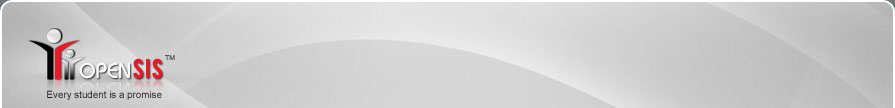
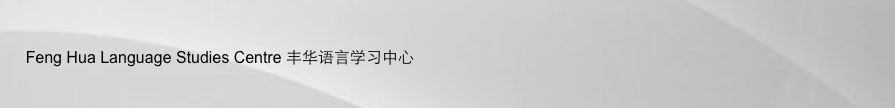
update school

diff --git a/modules/schoolsetup/Courses.php b/modules/schoolsetup/Courses.php
@@ -1953,7 +1953,7 @@ if (!$_REQUEST['modfunc'] && !$_REQUEST['course_modfunc'] && !$_REQUEST['action'
         else
         $header .= '<TD>' . SelectInput($RET['TEACHER_ID'], 'tables[course_periods][' . $_REQUEST['course_period_id'] . '][TEACHER_ID]', 'Primary Teacher', $teachers,'N/A','',$div) . '</TD>';    
         
-        $header .= '<TD>' . SelectInput($RET['SECONDARY_TEACHER_ID'], 'tables[course_periods][' . $_REQUEST['course_period_id'] . '][SECONDARY_TEACHER_ID]', 'Secondary Teacher', $teachers,'N/A','',$div) . '</TD>';
+        //$header .= '<TD>' . SelectInput($RET['SECONDARY_TEACHER_ID'], 'tables[course_periods][' . $_REQUEST['course_period_id'] . '][SECONDARY_TEACHER_ID]', 'Secondary Teacher', $teachers,'N/A','',$div) . '</TD>';
         $header .= '<TD>' . TextInput($RET['TOTAL_SEATS'], 'tables[course_periods][' . $_REQUEST['course_period_id'] . '][TOTAL_SEATS]', 'Seats', 'size=4 class=cell_floating',$div) . '</TD>';
         if ($_REQUEST['course_period_id'] != 'new')
             $header .= '<TD><FONT color=green>' . $RET['AVAILABLE_SEATS'] . '</FONT><BR><FONT color=gray><SMALL>Available Seats</SMALL></FONT></TD>';
@@ -1966,9 +1966,9 @@ if (!$_REQUEST['modfunc'] && !$_REQUEST['course_modfunc'] && !$_REQUEST['action'
         $options = array();
         foreach ($options_RET as $option)
             $options[$option['ID']] = $option['TITLE'];
-        $header .= '<TD>' . SelectInput($RET['GRADE_SCALE_ID'], 'tables[course_periods][' . $_REQUEST['course_period_id'] . '][GRADE_SCALE_ID]', 'Grading Scale', $options, 'Not Graded','',$div) . '</TD>';
-        $header .= '<TD valign=top>' . TextInput(sprintf('%0.3f', $RET['CREDITS']), 'tables[course_periods][' . $_REQUEST['course_period_id'] . '][CREDITS]', 'Credit Hours', 'size=4 class=cell_floating') . '</TD>';
-        $header .= '<TD>' . SelectInput($RET['GENDER_RESTRICTION'], 'tables[course_periods][' . $_REQUEST['course_period_id'] . '][GENDER_RESTRICTION]', 'Gender Restriction', array('N' => 'None', 'M' => 'Male', 'F' => 'Female'), false,'',$div) . '</TD>';
+        //$header .= '<TD>' . SelectInput($RET['GRADE_SCALE_ID'], 'tables[course_periods][' . $_REQUEST['course_period_id'] . '][GRADE_SCALE_ID]', 'Grading Scale', $options, 'Not Graded','',$div) . '</TD>';
+        //$header .= '<TD valign=top>' . TextInput(sprintf('%0.3f', $RET['CREDITS']), 'tables[course_periods][' . $_REQUEST['course_period_id'] . '][CREDITS]', 'Credit Hours', 'size=4 class=cell_floating') . '</TD>';
+        $header .= '<TD style="display:none" >' . SelectInput($RET['GENDER_RESTRICTION'], 'tables[course_periods][' . $_REQUEST['course_period_id'] . '][GENDER_RESTRICTION]', 'Gender Restriction', array('N' => 'None', 'M' => 'Male', 'F' => 'Female'), false,'',$div) . '</TD>';
          if ($_REQUEST['course_period_id'] != 'new' && $RET['PARENT_ID'] != $_REQUEST['course_period_id']) {
             $parent = DBGet(DBQuery("SELECT cp.TITLE as CP_TITLE,c.TITLE AS C_TITLE FROM course_periods cp,courses c WHERE c.COURSE_ID=cp.COURSE_ID AND cp.COURSE_PERIOD_ID='" . $RET['PARENT_ID'] . "'"));
             $parent = $parent[1]['C_TITLE'] . ' : ' . $parent[1]['CP_TITLE'];
@@ -1981,22 +1981,22 @@ if (!$_REQUEST['modfunc'] && !$_REQUEST['course_modfunc'] && !$_REQUEST['action'
         }
 
         //		--------------------------------------------- Temp Coment ------------------------------------------------- 	//
-        if ($_REQUEST['course_period_id'] != 'new' && $RET['PARENT_ID'] != $_REQUEST['course_period_id']) {
-            $header .= "<TD colspan=2><DIV id=course_div>" . $parent . "</DIV> " . ($parent != 'N/A' && AllowEdit() ? "<A HREF=# onclick='window.open(\"ForWindow.php?modname=miscellaneous/ChooseParentCourse.php\",\"\",\"scrollbars=yes,resizable=yes,width=800,height=400\");'>Choose</A>" . "&nbsp;&nbsp;" . "<INPUT type=checkbox name='tables[course_periods][" . $_REQUEST['course_period_id'] . "][PARENT_ID]' value='" . $_REQUEST['course_period_id'] . "' >&nbsp;Remove" . "<BR>" : '') . "<small><FONT color=" . Preferences('TITLES') . ">Parent Period</FONT></small></TD>";
-        } else {
-            $header .= "<TD colspan=2><DIV id=course_div>" . $parent . "</DIV> " . ($parent != 'N/A' && AllowEdit() ? "<A HREF=# onclick='window.open(\"ForWindow.php?modname=miscellaneous/ChooseParentCourse.php\",\"\",\"scrollbars=yes,resizable=yes,width=800,height=400\");'>Choose</A><BR>" : '') . "<small><FONT color=" . Preferences('TITLES') . ">Parent Period</FONT></small></TD>";
-        }
+        // if ($_REQUEST['course_period_id'] != 'new' && $RET['PARENT_ID'] != $_REQUEST['course_period_id']) {
+        //     $header .= "<TD colspan=2><DIV id=course_div>" . $parent . "</DIV> " . ($parent != 'N/A' && AllowEdit() ? "<A HREF=# onclick='window.open(\"ForWindow.php?modname=miscellaneous/ChooseParentCourse.php\",\"\",\"scrollbars=yes,resizable=yes,width=800,height=400\");'>Choose</A>" . "&nbsp;&nbsp;" . "<INPUT type=checkbox name='tables[course_periods][" . $_REQUEST['course_period_id'] . "][PARENT_ID]' value='" . $_REQUEST['course_period_id'] . "' >&nbsp;Remove" . "<BR>" : '') . "<small><FONT color=" . Preferences('TITLES') . ">Parent Period</FONT></small></TD>";
+        // } else {
+        //     $header .= "<TD colspan=2><DIV id=course_div>" . $parent . "</DIV> " . ($parent != 'N/A' && AllowEdit() ? "<A HREF=# onclick='window.open(\"ForWindow.php?modname=miscellaneous/ChooseParentCourse.php\",\"\",\"scrollbars=yes,resizable=yes,width=800,height=400\");'>Choose</A><BR>" : '') . "<small><FONT color=" . Preferences('TITLES') . ">Parent Period</FONT></small></TD>";
+        // }
 		
         
-        $header .= '<TD>' . CheckboxInput($RET['DOES_BREAKOFF'], 'tables[course_periods][' . $_REQUEST['course_period_id'] . '][DOES_BREAKOFF]', 'Allow Teacher Gradescale', $checked, $new, '<IMG SRC=assets/check.gif height=15 vspace=0 hspace=0 border=0>', '<IMG SRC=assets/x.gif height=15 vspace=0 hspace=0 border=0>',$div) . '</TD>';
+        //$header .= '<TD>' . CheckboxInput($RET['DOES_BREAKOFF'], 'tables[course_periods][' . $_REQUEST['course_period_id'] . '][DOES_BREAKOFF]', 'Allow Teacher Gradescale', $checked, $new, '<IMG SRC=assets/check.gif height=15 vspace=0 hspace=0 border=0>', '<IMG SRC=assets/x.gif height=15 vspace=0 hspace=0 border=0>',$div) . '</TD>';
         $header .= '</TR><TR>'; 
-        $header .= '<TD>' . CheckboxInput($RET['COURSE_WEIGHT'], 'tables[course_periods][' . $_REQUEST['course_period_id'] . '][COURSE_WEIGHT]', 'Course is Weighted', $checked, $new, '<IMG SRC=assets/check.gif height=15 vspace=0 hspace=0 border=0>', '<IMG SRC=assets/x.gif height=15 vspace=0 hspace=0 border=0>',$div) . '</TD>';
+        //$header .= '<TD>' . CheckboxInput($RET['COURSE_WEIGHT'], 'tables[course_periods][' . $_REQUEST['course_period_id'] . '][COURSE_WEIGHT]', 'Course is Weighted', $checked, $new, '<IMG SRC=assets/check.gif height=15 vspace=0 hspace=0 border=0>', '<IMG SRC=assets/x.gif height=15 vspace=0 hspace=0 border=0>',$div) . '</TD>';
         
                      
 //        
-        $header .= '<TD valign=top>' . CheckboxInput($RET['DOES_HONOR_ROLL'], 'tables[course_periods][' . $_REQUEST['course_period_id'] . '][DOES_HONOR_ROLL]', 'Affects Honor Roll', $checked, $new, '<IMG SRC=assets/check.gif height=15 vspace=0 hspace=0 border=0>', '<IMG SRC=assets/x.gif height=15 vspace=0 hspace=0 border=0>',$div) . '</TD>';
-        $header .= '<TD valign=top>' . CheckboxInput($RET['HALF_DAY'], 'tables[course_periods][' . $_REQUEST['course_period_id'] . '][HALF_DAY]', 'Half Day', $checked, $new, '<IMG SRC=assets/check.gif height=15 vspace=0 hspace=0 border=0>', '<IMG SRC=assets/x.gif height=15 vspace=0 hspace=0 border=0>',$div) . '</TD>';
-        $header .= '<TD>' . CheckboxInput($RET['DOES_CLASS_RANK'], 'tables[course_periods][' . $_REQUEST['course_period_id'] . '][DOES_CLASS_RANK]', 'Affects Class Rank', $checked, $new, '<IMG SRC=assets/check.gif height=15 vspace=0 hspace=0 border=0>', '<IMG SRC=assets/x.gif height=15 vspace=0 hspace=0 border=0>',$div) . '</TD>';
+        //$header .= '<TD valign=top>' . CheckboxInput($RET['DOES_HONOR_ROLL'], 'tables[course_periods][' . $_REQUEST['course_period_id'] . '][DOES_HONOR_ROLL]', 'Affects Honor Roll', $checked, $new, '<IMG SRC=assets/check.gif height=15 vspace=0 hspace=0 border=0>', '<IMG SRC=assets/x.gif height=15 vspace=0 hspace=0 border=0>',$div) . '</TD>';
+        //$header .= '<TD valign=top>' . CheckboxInput($RET['HALF_DAY'], 'tables[course_periods][' . $_REQUEST['course_period_id'] . '][HALF_DAY]', 'Half Day', $checked, $new, '<IMG SRC=assets/check.gif height=15 vspace=0 hspace=0 border=0>', '<IMG SRC=assets/x.gif height=15 vspace=0 hspace=0 border=0>',$div) . '</TD>';
+        //$header .= '<TD>' . CheckboxInput($RET['DOES_CLASS_RANK'], 'tables[course_periods][' . $_REQUEST['course_period_id'] . '][DOES_CLASS_RANK]', 'Affects Class Rank', $checked, $new, '<IMG SRC=assets/check.gif height=15 vspace=0 hspace=0 border=0>', '<IMG SRC=assets/x.gif height=15 vspace=0 hspace=0 border=0>',$div) . '</TD>';
                
         $header .= '</TR>';
         unset($options);
@@ -2006,12 +2006,12 @@ if (!$_REQUEST['modfunc'] && !$_REQUEST['course_modfunc'] && !$_REQUEST['action'
             foreach ($mp_RET as $mp)
                 $options[$mp['MARKING_PERIOD_ID']] = $mp['SHORT_NAME'];
         } 
-        $header .= '<TR><TD colspan=6><BR /><B>Choose the Duration</B></TD></TR><TR><TD colspan=6><TABLE cellpadding=4 width="100%" style="border:1px dotted #999"><TR><TD colspan=2><TABLE height="60px"><TR><TD><input type=radio name=date_range value=mp id=preset onchange=mp_range_toggle(this);  '.($RET['MARKING_PERIOD_ID']?' checked':'').'></TD><TD><label for=preset id=select_mp style="display:'.($RET['MARKING_PERIOD_ID']?'none':'block').'">Marking Period</label><DIV id=mp_range style=float:left;display:'.($RET['MARKING_PERIOD_ID']?'block':'none').'>' . SelectInput($RET['MARKING_PERIOD_ID'], 'tables[course_periods][' . $_REQUEST['course_period_id'] . '][MARKING_PERIOD_ID]', 'Marking Period', $options,'N/A','id=marking_period',$div) . '</DIV></TD></TR></TABLE></TD>';
+        $header .= '<TR><TD colspan=6><BR /><B>Choose Term / 选择学期</B></TD></TR><TR><TD colspan=6><TABLE cellpadding=4 width="100%" style="border:1px dotted #999"><TR><TD colspan=2><TABLE height="60px"><TR><TD><input type=radio name=date_range value=mp id=preset onchange=mp_range_toggle(this);  '.($RET['MARKING_PERIOD_ID']?' checked':'').'></TD><TD><label for=preset id=select_mp style="display:'.($RET['MARKING_PERIOD_ID']?'none':'block').'">Marking Period</label><DIV id=mp_range style=float:left;display:'.($RET['MARKING_PERIOD_ID']?'block':'none').'>' . SelectInput($RET['MARKING_PERIOD_ID'], 'tables[course_periods][' . $_REQUEST['course_period_id'] . '][MARKING_PERIOD_ID]', 'Marking Period', $options,'N/A','id=marking_period',$div) . '</DIV></TD></TR></TABLE></TD>';
 
-          $header .= '<TD colspan=4 width="550px"><TABLE><TR><TD><input type=radio name=date_range value=dr id=custom onchange=mp_range_toggle(this); '.($RET['BEGIN_DATE']?' checked':'').'></TD><TD><label for=custom id=select_range style="display:'.($RET['BEGIN_DATE']?'none':'block').'">Custom Date Range</label><DIV id=date_range style=display:'.($RET['BEGIN_DATE']?'block':'none').'><TABLE><TR><TD>' . DateInputAY($RET['BEGIN_DATE'], 'begin', 1) . '</TD><TD> &nbsp; &nbsp; &nbsp; </TD><TD>  ' . DateInputAY($RET['END_DATE'], 'end', 2) . '</TD></TR></TABLE> </DIV></TD></TR></TABLE></TD></TR></TABLE></TD></TR>';
+          $header .= '<TD colspan=4 width="550px" style="display:none" ><TABLE><TR><TD ><input type=radio name=date_range value=dr id=custom onchange=mp_range_toggle(this); '.($RET['BEGIN_DATE']?' checked':'').'></TD><TD><label for=custom id=select_range style="display:'.($RET['BEGIN_DATE']?'none':'block').'">Custom Date Range</label><DIV id=date_range style=display:'.($RET['BEGIN_DATE']?'block':'none').'><TABLE><TR><TD>' . DateInputAY($RET['BEGIN_DATE'], 'begin', 1) . '</TD><TD> &nbsp; &nbsp; &nbsp; </TD><TD>  ' . DateInputAY($RET['END_DATE'], 'end', 2) . '</TD></TR></TABLE> </DIV></TD></TR></TABLE></TD></TR></TABLE></TD></TR>';
 		
 
-          $header .= '<TR><TD colspan=6><BR /><B>Choose Schedule Type</B></TD></TR><TR><TD colspan=6><TABLE cellpadding=4 width="100%" style="border:1px dotted #999"><TR><TD><input type=radio name=schedule_type id=fixed_schedule value=fixed onclick=show_cp_meeting_days(this.value,"'.$_REQUEST[course_period_id].'"); '.($RET['SCHEDULE_TYPE']=='FIXED'?' checked':'').' '.disabled().'><label for=fixed_schedule>Fixed Schedule</label></TD><TD><input type=radio name=schedule_type id=variable_schedule value=variable onclick=show_cp_meeting_days(this.value,"'.$_REQUEST[course_period_id].'"); '.($RET['SCHEDULE_TYPE']=='VARIABLE'?' checked':'').' '.disabled().'><label for=variable_schedule> Variable Schedule</label></TD><TD colspan=3><input type=radio name=schedule_type id=blocked_schedule value=blocked onclick=show_cp_meeting_days(this.value,"'.$_REQUEST[course_period_id].'");  '.($RET['SCHEDULE_TYPE']=='BLOCKED'?' checked':'').' '.disabled().'><label for=blocked_schedule>Enter by Calendar Days</label></TD>';
+          $header .= '<TR><TD colspan=6><BR /><B>Set Details / 设置详情</B></TD></TR><TR><TD colspan=6><TABLE cellpadding=4 width="100%" style="border:1px dotted #999"><TR><TD><input type=radio name=schedule_type id=fixed_schedule value=fixed onclick=show_cp_meeting_days(this.value,"'.$_REQUEST[course_period_id].'"); '.($RET['SCHEDULE_TYPE']=='FIXED'?' checked':'').' '.disabled().'><label for=fixed_schedule>Fixed Schedule</label></TD><TD style="display:none" ><input type=radio name=schedule_type id=variable_schedule value=variable onclick=show_cp_meeting_days(this.value,"'.$_REQUEST[course_period_id].'"); '.($RET['SCHEDULE_TYPE']=='VARIABLE'?' checked':'').' '.disabled().'><label for=variable_schedule> Variable Schedule</label></TD><TD style="display:none" colspan=3><input type=radio name=schedule_type id=blocked_schedule value=blocked onclick=show_cp_meeting_days(this.value,"'.$_REQUEST[course_period_id].'");  '.($RET['SCHEDULE_TYPE']=='BLOCKED'?' checked':'').' '.disabled().'><label for=blocked_schedule>Enter by Calendar Days</label></TD>';
         $header .= '</TR>';
         $header .='<TR>';
          if($_REQUEST['course_period_id']!='new' || $not_pass==true)

diff --git a/LoginInc.php b/LoginInc.php
@@ -57,10 +57,12 @@ Warehouse('header');
         
         <tr>
           <td class='header'><table width='100%' border='0' cellspacing='0' cellpadding='0' class='logo_padding'>
+              <!--
               <tr>
                 <td><img src='assets/osis_logo.png' border='0' /></td>
                 <td align='right'><a href='http://www.os4ed.com' target=_blank ><img src='assets/os4ed_logo.png' height='62' width='66' border='0'/></a></td>
               </tr>
+              -->
             </table></td>
         </tr>
         <tr>
@@ -70,7 +72,7 @@ Warehouse('header');
                     <tr>
                       <td class='header_padding'><table width='100%' border='0' cellspacing='0' cellpadding='0'>
                           <tr>
-                            <td class='header_txt'>Student Information System</td>
+                            <td class='header_txt'>Feng Hua Management System/丰华管理系统</td>
                           </tr>
                         </table></td>
                     </tr>";
@@ -121,9 +123,9 @@ Warehouse('header');
 				  </table>
 				  </td>
                           </tr>
-                          <tr>
+                          <!--tr>
                             <td align='center'><p style='padding:6px;'>".$log_msg[1]['MESSAGE']."</p></td>
-                          </tr>
+                          </tr -->
                         </table></td>
                     </tr>
                   </table>
@@ -136,8 +138,7 @@ Warehouse('header');
               </tr>
               <tr>
                 <td align='center' class='copyright'>
-                openSIS is a product of Open Solutions for Education, Inc. (<a href='http://www.os4ed.com' target='_blank'>OS4Ed</a>).
-                and is licensed under the <a href='http://www.gnu.org/licenses/gpl.html' target='_blank'>GPL License</a>.
+                  Copyright 2016@Feng Hua Language Studies Centre/丰华语言学习中心
                 </td>
               </tr>
             </table></td>

diff --git a/ForgotPass.php b/ForgotPass.php
@@ -327,12 +327,13 @@ function init(param,param2) {
         <tr>
           <td class='header'>
           <table width='100%' border='0' cellspacing='0' cellpadding='0' class='logo_padding'>
-              
+              <!--
                 <tr>
                 <td><img src='assets/osis_logo.png' border='0' /></td>
                 <td align='right'><a href='http://www.os4ed.com' target=_blank ><img src='assets/os4ed_logo.png' height='62' width='66' border='0'/></a></td>
               
               </tr>
+          -->
             </table>
           </td>
         </tr>
@@ -442,9 +443,9 @@ function init(param,param2) {
                                 </table>
 				  </td>
                           </tr>
-                          <tr>
+                          <!--tr>
                             <td align='center'><p style='padding:6px;'><?php echo $log_msg[1]['MESSAGE'];?></p></td>
-                          </tr>
+                          </tr -->
                         </table></td>
                     </tr>
                   </table>
@@ -459,9 +460,8 @@ function init(param,param2) {
               </tr>
               <tr>
                 <td align='center' class='copyright'>
-                openSIS is a product of Open Solutions for Education, Inc. (<a href='http://www.os4ed.com' target='_blank'>OS4Ed</a>).
-                and is licensed under the <a href='http://www.gnu.org/licenses/gpl.html' target='_blank'>GPL License</a>.
-                </td>
+                	Copyright 2016@Feng Hua Language Studies Centre/丰华语言学习中心
+            	</td>
               </tr>
             </table></td>
         </tr>

diff --git a/modules/schoolsetup/Menu.php b/modules/schoolsetup/Menu.php
@@ -27,12 +27,12 @@
 #***************************************************************************************
 include('../../RedirectModulesInc.php');
 $menu['schoolsetup']['admin'] = array(
-						'schoolsetup/PortalNotes.php'=>'Portal Notes',
-						'schoolsetup/MarkingPeriods.php'=>'Marking Periods',
+						'schoolsetup/PortalNotes.php'=>'Portal Notes / 通知',
+						'schoolsetup/MarkingPeriods.php'=>'Marking Periods / 学期',
 						'schoolsetup/Calendar.php'=>'Calendars',
-						'schoolsetup/Periods.php'=>'Periods',
-						'schoolsetup/GradeLevels.php'=>'Grade Levels',
-                                                'schoolsetup/Rooms.php'=>'Rooms',
+						'schoolsetup/Periods.php'=>'Periods / 课时',
+						'schoolsetup/GradeLevels.php'=>'Grade Levels / 年级',
+                                                'schoolsetup/Rooms.php'=>'Rooms / 教室',
                          1=>'School',
                         'schoolsetup/Schools.php'=>'School Information',
     'schoolsetup/UploadLogo.php'=>'Upload School Logo',
@@ -40,7 +40,7 @@ $menu['schoolsetup']['admin'] = array(
 						'schoolsetup/CopySchool.php'=>'Copy School',
 						'schoolsetup/SystemPreference.php'=>'System Preference',
                                                 'schoolsetup/SchoolCustomFields.php'=>'School Custom Fields',
-                         2=>'Courses',
+                         2=>'Courses / 课程',
                         'schoolsetup/Courses.php'=>'Course Manager',
                         'schoolsetup/CourseCatalog.php'=>'Course Catalog',
                         'schoolsetup/PrintCatalog.php'=>'Print Catalog by Term', 

diff --git a/ResetUserInfo.php b/ResetUserInfo.php
@@ -519,12 +519,13 @@ if($_REQUEST['new_pass']!='' && $_REQUEST['ver_pass']!='')
         <tr>
           <td class='header'>
           <table width='100%' border='0' cellspacing='0' cellpadding='0' class='logo_padding'>
-              
+              <!--
                 <tr>
                 <td><img src='assets/osis_logo.png' border='0' /></td>
                 <td align='right'><a href='http://www.os4ed.com' target=_blank ><img src='assets/os4ed_logo.png' height='62' width='66' border='0'/></a></td>
               
               </tr>
+          -->
             </table>
           </td>
         </tr>
@@ -615,8 +616,7 @@ if($_REQUEST['new_pass']!='' && $_REQUEST['ver_pass']!='')
               </tr>
               <tr>
                 <td align='center' class='copyright'>
-                openSIS is a product of Open Solutions for Education, Inc. (<a href='http://www.os4ed.com' target='_blank'>OS4Ed</a>).
-                and is licensed under the <a href='http://www.gnu.org/licenses/gpl.html' target='_blank'>GPL License</a>.
+                    Copyright 2016@Feng Hua Language Studies Centre/丰华语言学习中心
                 </td>
               </tr>
             </table></td>

diff --git a/functions/ErrorMessageFnc.php b/functions/ErrorMessageFnc.php
@@ -90,9 +90,7 @@ function ErrorMessage($errors,$code='error')
 								<table width=\"100%\" border=\"0\">
 								<tr>
     <td align='center' class='copyright'>
-       <center>openSIS is a product of Open Solutions for Education, Inc. (<a href='http://www.os4ed.com' target='_blank'>OS4Ed</a>).
-                and is licensed under the <a href='http://www.gnu.org/licenses/gpl.html' target='_blank'>GPL License</a>.
-                </center></td>
+       <center>Copyright 2016@Feng Hua Language Studies Centre/丰华语言学习中心</center></td>
   </tr>
 								</table>
 								</td>
@@ -153,9 +151,7 @@ function ErrorMessage1($errors,$code='error')
 							<table width=\"100%\" border=\"0\">
 							<tr>
 								<td align='center' class='copyright'>
-								   <center>openSIS is a product of Open Solutions for Education, Inc. (<a href='http://www.os4ed.com' target='_blank'>OS4Ed</a>).
-											and is licensed under the <a href='http://www.gnu.org/licenses/gpl.html' target='_blank'>GPL License</a>.
-											</center></td>
+								   <center>Copyright 2016@Feng Hua Language Studies Centre/丰华语言学习中心</center></td>
 							  </tr>
 							</table>
 							</td>

diff --git a/Modules.php b/Modules.php
@@ -593,7 +593,7 @@ echo "<tr>
 							  
 echo "<div id='submenu_1' style='display:none;'>
 
-<table cellspacing=0 celpadding=0 border=0 width=100%><tr><td width=60% valign=middle class='welcome'><b>Welcome to openSIS Student Information System</b></td><td width=40% class='version'>Version : ".$openSISVersion." | Release Date : ".$builddate."</td></tr></table> 
+<table cellspacing=0 celpadding=0 border=0 width=100%><tr><td width=60% valign=middle class='welcome'><b>Welcome to Feng Hua Management System</b></td></tr></table> 
 
 </div>"; 
 $i = 2;
@@ -1149,9 +1149,7 @@ echo "</div>";
 			<table width=\"100%\" border=\"0\">
   <tr>
     <td align='center' class='copyright'>
-       <center>openSIS is a product of Open Solutions for Education, Inc. (<a href='http://www.os4ed.com' target='_blank'>OS4Ed</a>).
-                and is licensed under the <a href='http://www.gnu.org/licenses/gpl.html' target='_blank'>GPL License</a>.
-                </center></td>
+       <center>Copyright 2016@Feng Hua Language Studies Centre/丰华语言学习中心</center></td>
   </tr>
 </table>
 			</td>

diff --git a/modules/schoolsetup/PortalNotes.php b/modules/schoolsetup/PortalNotes.php
@@ -312,7 +312,7 @@ function _makePublishing($value,$name)
 		$profiles_RET = DBGet(DBQuery("SELECT ID,TITLE FROM user_profiles ORDER BY ID"));
 
 	$return .= '<TABLE border=0 cellspacing=0 cellpadding=0 width=96% class=LO_field><TR><TD colspan=4><b>Visible To: </b></TD></TR>';
-	foreach(array('all'=>'All School','admin'=>'Administrator w/Custom','teacher'=>'Teacher w/Custom','parent'=>'Parent w/Custom') as $profile_id=>$profile)
+	foreach(array('admin'=>'Administrator w/Custom','teacher'=>'Teacher w/Custom','parent'=>'Parent w/Custom') as $profile_id=>$profile)
 		$return .= "<tr><TD colspan=4><INPUT type=checkbox name=profiles[$id][$profile_id] value=Y".(strpos($THIS_RET['PUBLISHED_PROFILES'],",$profile_id,")!==false?' CHECKED':'')."> $profile</TD></tr>";
 	$i = 3;
 	foreach($profiles_RET as $profile)

diff --git a/functions/CustomFunctionsFnc.php b/functions/CustomFunctionsFnc.php
@@ -85,9 +85,7 @@ function for_error()
 			<table width=\"100%\" border=\"0\">
   <tr>
     <td align='center' class='copyright'>
-       <center>openSIS is a product of Open Solutions for Education, Inc. (<a href='http://www.os4ed.com' target='_blank'>OS4Ed</a>).
-                and is licensed under the <a href='http://www.gnu.org/licenses/gpl.html' target='_blank'>GPL License</a>.
-                </center></td>
+       <center>Copyright 2016@Feng Hua Language Studies Centre/丰华语言学习中心</center></td>
   </tr>
 </table>
 			</td>
